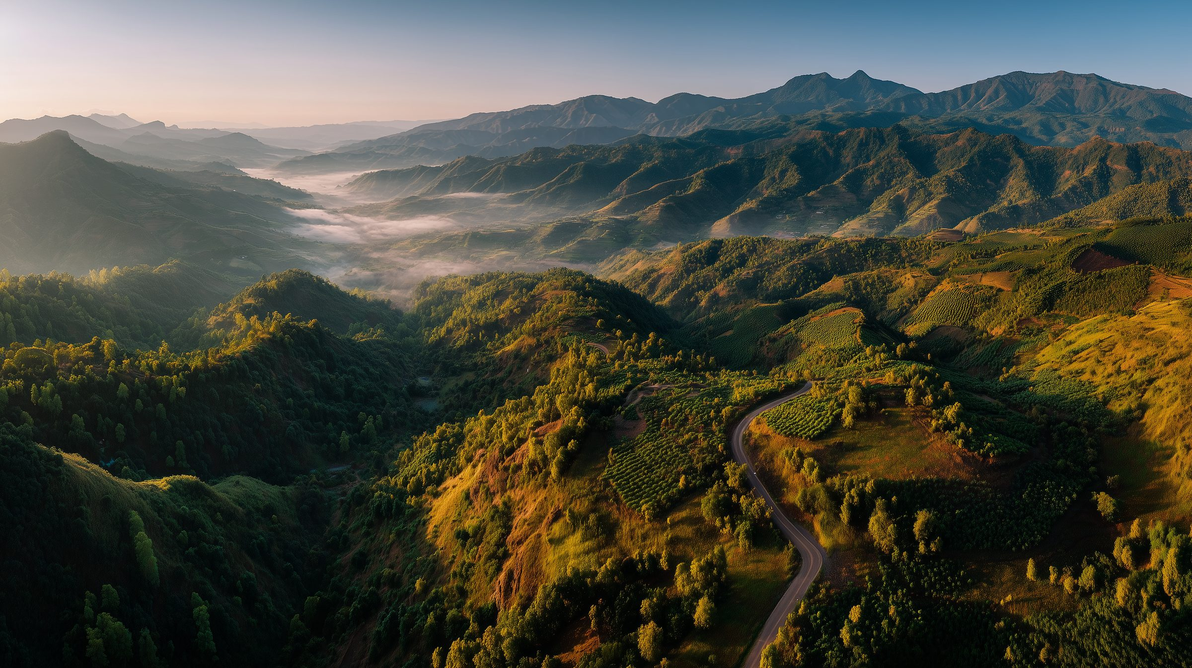
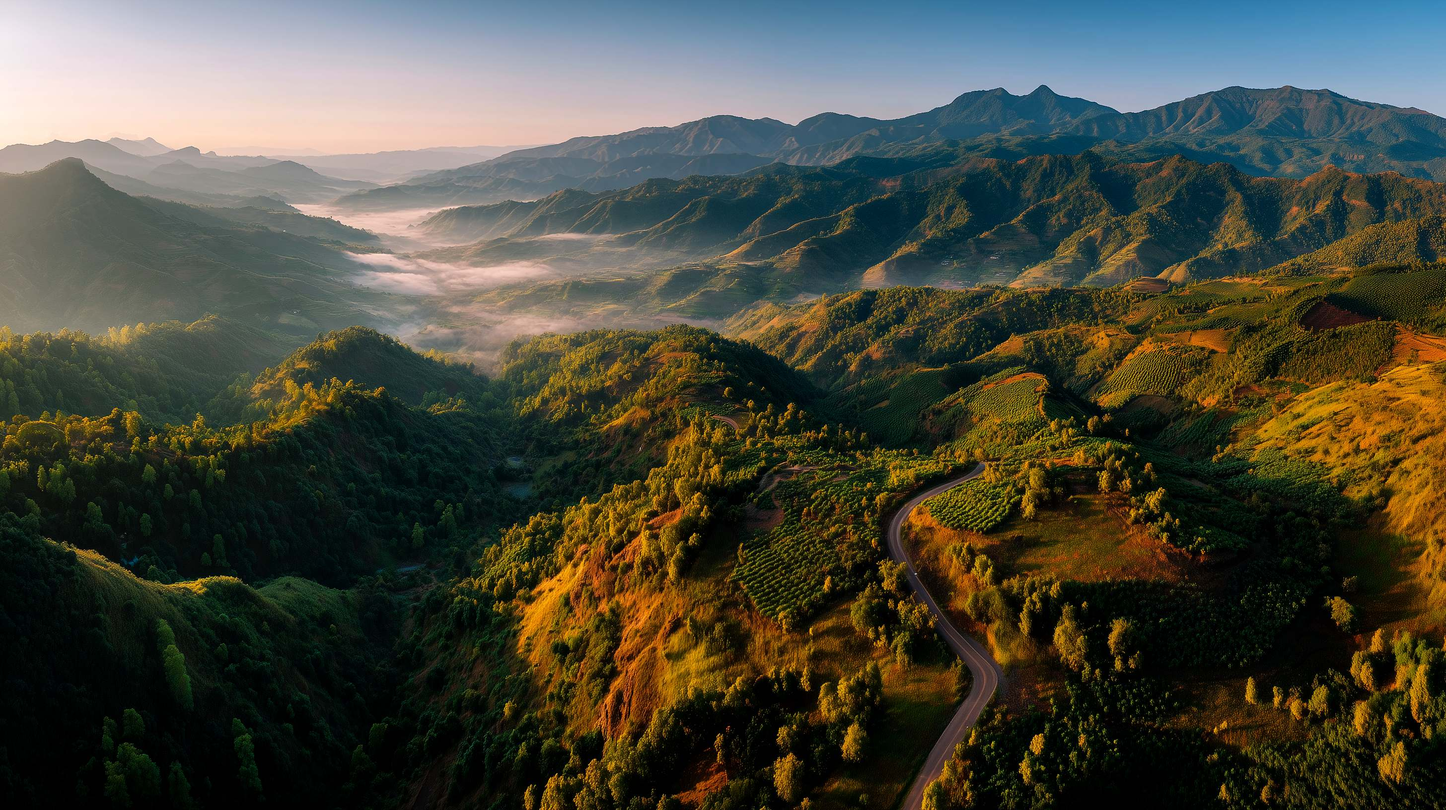
goal-loop iter 5: hero-home regrade (visibility/saturation), softer hero fade, dark wordmark on light surfaces
Claude-Session: https://claude.ai/code/session_014urPJXax8vqvDS4f1FV2Ua

diff --git a/app/components/home/Hero.tsx b/app/components/home/Hero.tsx
@@ -103,7 +103,7 @@ export default function Hero() {
         className="pointer-events-none absolute inset-0"
         style={{
           background:
-            "linear-gradient(180deg, rgba(247,248,249,0.84) 0%, rgba(247,248,249,0.72) 45%, rgba(247,248,249,0.88) 78%, var(--paper) 100%)",
+            "linear-gradient(180deg, rgba(247,248,249,0.76) 0%, rgba(247,248,249,0.56) 45%, rgba(247,248,249,0.8) 78%, var(--paper) 100%)",
         }}
         aria-hidden
       />

diff --git a/app/components/site/SiteFooter.tsx b/app/components/site/SiteFooter.tsx
@@ -9,7 +9,7 @@ export default function SiteFooter() {
         <div className="grid grid-cols-2 gap-8 sm:grid-cols-3 lg:grid-cols-5">
           <div className="col-span-2 sm:col-span-3 lg:col-span-1">
             <Image
-              src="/brand/payve-logo-transparent.png"
+              src="/brand/payve-logo.png"
               alt="Payve"
               width={109}
               height={50}

diff --git a/app/components/site/SiteHeader.tsx b/app/components/site/SiteHeader.tsx
@@ -46,7 +46,7 @@ export default function SiteHeader() {
           onClick={() => setOpenGroup(null)}
         >
           <Image
-            src="/brand/payve-logo-transparent.png"
+            src="/brand/payve-logo.png"
             alt="Payve"
             width={109}
             height={50}

diff --git a/.goal-loop/PROGRESS.md b/.goal-loop/PROGRESS.md
@@ -23,3 +23,8 @@ Repo: C:\Users\Alex Archer\Desktop\payve-landing (stack on site/pr9-canvas-polis
 - did: deleted 11 unused components (AgentWorkflow, BankConnectTerminal, CallToAction, ContactModal, CustomerSpotlight, IntegrationFlow, MinutesCounter, Placeholder, StreamingText, SystemIntegrationMesh, site/PageIntro; all verified import-free). visual-diff.mjs: --export flag + auto-pick newest r2/r1 export dir; positional-name filter excludes the --export value.
 - GATE: PASS (npm run build exit 0)
 - next: hero-home regrade (saturation/level bump from imagery-originals PNG) + Hero gradient soften + logo variant correctness, then push + open W1 PR
+
+## iteration 5 — hero regrade + gradient soften + logo dark variant
+- did: scripts/regrade-hero.mjs (Playwright canvas filter, --filter/--quality); hero-home.jpg regraded saturate(1.22) brightness(1.03) contrast(1.05) at q0.62 = 721KB (under the 800KB hero budget); Hero paper-fade gradient softened (0.84/0.72/0.88 -> 0.76/0.56/0.8); header+footer wordmark switched to dark variant payve-logo.png (transparent silver variant was low-contrast on the light surfaces; vector swap still gated on Alex shared-drive SVGs).
+- GATE: PASS (npm run build exit 0)
+- next: push branch + open W1 PR, then canvas batch 1 (home)
